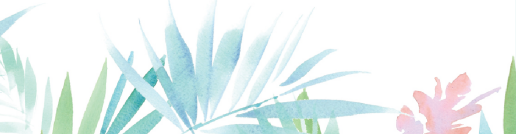
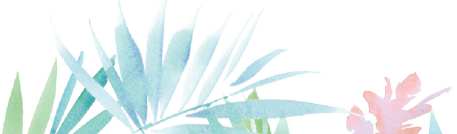
27/05

diff --git a/index.html b/index.html
@@ -7,14 +7,14 @@
         <meta name="author" content="" />
         <title>Gaia Surfe Feminino</title>
         <link rel="icon" type="image/x-icon" href="assets/gaia-ico.png" />
+		<!-- jQuery -->
+		<script src="https://code.jquery.com/jquery-1.9.1.js"></script>
 		<!-- LightWidget WIDGET -->
 		<script src="https://cdn.lightwidget.com/widgets/lightwidget.js"></script>
         <!-- Font Awesome icons (free version)-->
         <script src="https://use.fontawesome.com/releases/v6.1.0/js/all.js" crossorigin="anonymous"></script>
 		<!-- Iconic icons (free version)-->
 		<script type="module" src="https://unpkg.com/ionicons@7.1.0/dist/ionicons/ionicons.esm.js"></script>
-		<!-- jQuery -->
-		<script src="https://code.jquery.com/jquery-1.9.1.js"></script>
         <!-- Google fonts-->
         <link href="https://fonts.googleapis.com/css?family=Varela+Round" rel="stylesheet" />
         <link href="https://fonts.googleapis.com/css?family=Nunito:200,200i,300,300i,400,400i,600,600i,700,700i,800,800i,900,900i" rel="stylesheet" />
@@ -39,8 +39,8 @@
                 <div class="collapse navbar-collapse" id="navbarResponsive">
                     <ul class="navbar-nav ms-auto">
                         <li class="nav-item"><a class="nav-link text-caps" style="font-size: 0.8rem;" href="#home"><b><ion-icon name="home-outline"></ion-icon>&nbsp;HOME</b></a></li>
-						<li class="nav-item dropdown">
-							<a class="nav-link dropdown-toggle" href="#" role="button" data-bs-toggle="dropdown" style="font-size: 0.8rem;"><ion-icon name="people-outline"></ion-icon>&nbsp;SOBRE A GAIA</a>
+						<li class="dropdown">
+							<a class="dropdown-toggle" href="#" role="button" data-bs-toggle="dropdown"><ion-icon name="people-outline"></ion-icon>&nbsp;SOBRE A GAIA</a>
 							<ul class="dropdown-menu">
 								<li><a class="dropdown-item text-caps" style="font-size: 0.8rem;" href="#sobre"><b><ion-icon name="people-outline"></ion-icon>&nbsp;QUEM SOMOS</b></a></li>
 								<li><a class="dropdown-item text-caps" style="font-size: 0.8rem;" href="nossahistoria.html#historia"><b><i class="fa-regular fa-heart"></i>&nbsp;NOSSA HISTÓRIA</b></a></li>
@@ -124,7 +124,7 @@
 			</div>
         </section>
 		<!-- Sobre-->
-        <section class="carousel-section text-center" id="sobre">
+        <section class="carousel-section text-center" id="sobre" style="padding: 0.5rem 0 0 0;">
 			<!--div class="accordion" id="accordionExample">
 				<div class="accordion-item">
 					<h2 class="accordion-header">
@@ -214,8 +214,14 @@
 							Partindo dessa premissa, desenvolvemos um formato de aulas onde a regularidade, uma boa orientação e um ambiente acolhedor, fazem total diferença no processo de aprendizagem.<br><br>
 							A Gaia é uma escola que tem por característica ensinar o surfe de uma forma completa, e não apenas “ficar em pé” em cima da prancha.<br><br>
 							Nosso intuito é formar surfistas conscientes, com autonomia e conhecimento suficiente para as melhores tomadas de decisões que envolvam o ato de surfar como um todo.<br><br>
-							Nossa metodologia entende que um bom surfista precisa compreender como funciona o mar e suas correntes, tipos de fundo, técnicas de segurança, regras de prioridade, pontos cardeais, saber ler e interpretar uma previsão de ondas e por ai vai.						</p>
-						<br>
+							Nossa metodologia entende que um bom surfista precisa compreender como funciona o mar e suas correntes, tipos de fundo, técnicas de segurança, regras de prioridade, pontos cardeais, saber ler e interpretar uma previsão de ondas e por ai vai.<br><br>						
+							Uma forma de aprender leve, agradável, divertida, de troca de conhecimento e vivências no universo do surfe. Aqui você só precisa vir disposto a experimentar novas experiências, o resto deixa com a gente que te guiamos até o seu melhor.<br><br>
+							Nossas aulas em grupo nas turmas regulares são exclusivas para o público feminino, porém, atendemos ao público masculino com as aulas particulares.<br><br>
+							A idade mínima para as aulas em grupo é de 14 anos. Idades inferiores temos a opção de aulas particulares.<br><br>
+							As aulas ocorrem todos os dias, independentemente da condição climática ou marítima. Acreditamos que sempre é possível treinar algum fundamento do surfe, seja na água ou em terra firma, com simuladores de surfe (skate). <br><br>
+							Nossa localização oficial (nosso amado “point”) fica na Praia da Barra da Tijuca, próximo do posto 7, em frente ao Hotel Brisa e ao lado do quiosque Rei do Pastel, no Rio de Janeiro, Brasil.
+						</p>	
+						<!--br>
 						<div class="row row-cols-1 row-cols-md-3 g-6 justify-content-center">
 							<div class="col-md-12">
 								<a class="botao-gaia" data-bs-toggle="collapse" href="#collapseExample" role="button" aria-expanded="false" aria-controls="collapseExample">LEIA MAIS&nbsp;&nbsp;<i class="fa-solid fa-chevron-down"></i></i></a>
@@ -235,7 +241,7 @@
 									</p>
 								</div>
 							</div>
-						</div>	
+						</div!-->	
 					</div>
 					<div class="col-md-6">
 						<br>
@@ -247,16 +253,19 @@
 						<div class="row row-cols-1 row-cols-md-3 g-6 justify-content-center">
 							<div class="col-md-12 d-flex justify-content-center">
 								<div class="card-numeros">
-									<h1 class="text-gaia-verde counter" data-count="5" style="font-family: GaiaNumero; margin-bottom: 1px; font-size: 3rem;">5</h1>
+									<h1 class="text-gaia-verde counter" data-count="5" style="font-family: GaiaNumero; margin-bottom: 1px; font-size: 7rem;">5</h1>
 									Anos
 								</div>
+								&nbsp;&nbsp;&nbsp;
 								<div class="card-numeros">
-									<h1 class="text-gaia-verde counter" data-count="1698" style="font-family: GaiaNumero; margin-bottom: 1px; font-size: 3rem;">1698</h1>
-									Alunas
-								</div>
-								<div class="card-numeros">
-									<h1 class="text-gaia-verde counter" data-count="30" style="font-family: GaiaNumero; margin-bottom: 1px; font-size: 3rem;">30</h1>
+									<h1 class="text-gaia-verde counter" data-count="30" style="font-family: GaiaNumero; margin-bottom: 1px; font-size: 7rem;">30</h1>
 									Surftrips
+								</div>
+							</div>
+							<div class="col-md-12 d-flex justify-content-center">
+								<div class="card-numeros">
+									<h1 class="text-gaia-verde counter" data-count="1698" style="font-family: GaiaNumero; margin-bottom: 1px; font-size: 7rem;">1698</h1>
+									Alunas
 								</div>
 							</div>
 						</div>
@@ -724,6 +733,7 @@
         <script src="https://cdn.startbootstrap.com/sb-forms-latest.js"></script>
 		<script type="text/javascript">
 			$(document).ready(function(){
+			  $(".dropdown-toggle").dropdown();
 			  $('.counter').each(function() {
 				var $this = $(this),
 					countTo = $this.attr('data-count');

diff --git a/css/styles.css b/css/styles.css
@@ -114,7 +114,7 @@
 
 @font-face{
   font-family: "GaiaNumero";
-  src: url("../assets/fonts/GaiaNumero3-Regular.ttf") format("truetype");
+  src: url("../assets/fonts/GaiaNumero-Regular.ttf") format("truetype");
 }
 
 .map-responsive{
@@ -3704,6 +3704,9 @@ textarea.form-control-lg {
 
 .dropdown-toggle {
   white-space: nowrap;
+  color: #000;
+  font-size: 0.8rem; 
+  text-decoration: none;
 }
 .dropdown-toggle::after {
   display: inline-block;
@@ -4939,7 +4942,7 @@ textarea.form-control-lg {
 
 @media (min-width: 767px) {
 	.image-resp {
-		min-height: calc(100vh - 80px);
+		min-height: calc(100vh - 170px);
 		background-position: center;
 		background-repeat: no-repeat;
 		background-size: cover;
@@ -4949,7 +4952,7 @@ textarea.form-control-lg {
 }
 @media (max-width: 767px) {
 	.image-resp {
-		min-height: 470px;
+		min-height: 400px;
 		background-position: center;
 		background-repeat: no-repeat;
 		background-size: cover;
@@ -11830,6 +11833,12 @@ body {
     outline: none;
     border-bottom: 0.25rem solid #7db2c9;
   }
+  #mainNav .dropdown {
+    transition: none;
+    padding: 1.5rem 1rem;
+    color: #000;
+    /*border-bottom: 0.25rem solid transparent;*/
+  }
 }
 
 .btn {
@@ -12047,11 +12056,12 @@ body {
 }
 
 .footer {
+  background: url("../assets/img/gaia-folha-colorida-peq.png"), linear-gradient(to bottom, rgba(255, 255, 255, 1.0), rgba(255, 255, 255, 1.0), rgba(255, 255, 255, 0.3), rgba(255, 255, 255, 0.3));
   padding: 2rem 0;
-  background: linear-gradient(to bottom, rgba(255, 255, 255, 1), rgba(255, 255, 255, 0.3), rgba(255, 255, 255, 0.1), rgba(255, 255, 255, 0)), url("../assets/img/bg-rodape.png");
-  background-size: cover;
+  /*background: linear-gradient(to bottom, rgba(255, 255, 255, 1), rgba(255, 255, 255, 0.3), rgba(255, 255, 255, 0.1), rgba(255, 255, 255, 0)), url("../assets/img/bg-rodape.png");*/
+  background-size: fit-content;
   background-position: bottom right;
-  background-repeat: no-repeat;
+  background-repeat: repeat-x;
   background-attachment: scroll;
   margin-right: 0;
 }
@@ -12418,11 +12428,11 @@ body {
     background-attachment: scroll;
 	max-width: 500px;
 	position: absolute;
-	padding: 1.5rem;
+	padding: 1rem;
 	justify-content: start ;
 	align-items: start;
-	left: 5rem;
-	bottom: 5rem;
+	left: 3rem;
+	top: 2rem;
 	color: #fff;
 	font-size: 0.8rem;
 	border: 1px solid rgb(190,218,228);
@@ -12459,15 +12469,15 @@ body {
     background-repeat: no-repeat;
     background-attachment: scroll;
 	background-size: contain;
-	width: 180px;
+	/*width: 180px;
 	height: 130px;
 	position: relative;
-	padding: 1.5rem;
+	margin-bottom: 10px;*/
+	padding: 1rem;
 	justify-content: start;
 	align-items: start;
 	color: #000;
 	font-size: 0.8rem;
-	margin-bottom: 10px;
 }
 
 .botao-cabec {
@@ -12501,7 +12511,7 @@ body {
 		left: 0.5rem;
 		bottom: 0.5rem;
 		font-size: 0.7rem;
-		height: 120px;
+		height: 100px;
 		text-align: left;
 	}
 
